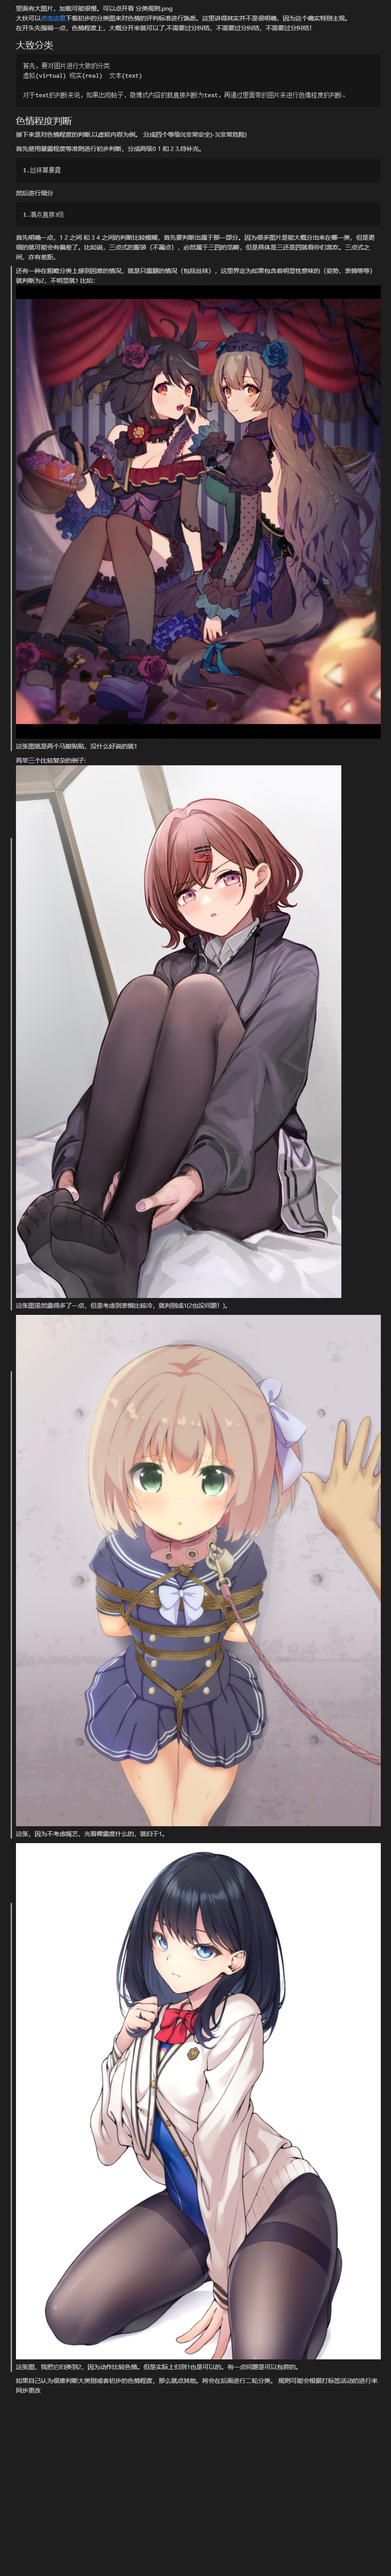
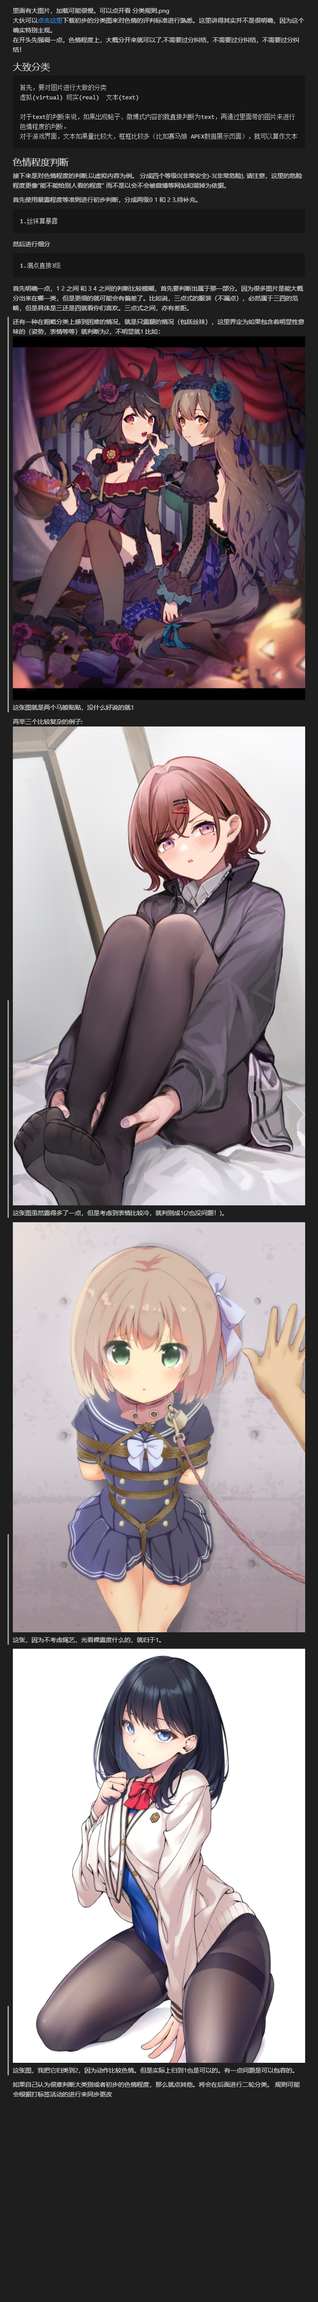
更新了分类规则

diff --git a/src/components/CheckPassword.vue b/src/components/CheckPassword.vue
@@ -28,12 +28,12 @@
               expire = new Date((new Date()).getTime() + hours * 3600000);
               expire = "; expires=" + expire.toGMTString();
             }
-            document.cookie = name + "=" + escape(value) + expire;
+            document.cookie = name + "=" + value + expire;
           },
         
         setCookie(){
             this.writeCookie("password",this.password,100000)
-            this.writeCookie("test","123456",100000)
+            // this.writeCookie("test","123456",100000)
             this.$router.push("/")
         }
     }

diff --git a/src/api/util.js b/src/api/util.js
@@ -1,0 +1,19 @@
+function cookieToJson(str) {
+    let cookieArr = str.split(";");
+    let obj = {} 
+    cookieArr.forEach((i) => {
+        let arr = i.split("=");
+        obj[arr[0]] =arr[1];
+    });
+    return obj
+  }
+function writeCookie(name, value, hours)
+{
+  var expire = "";
+  if(hours != null)
+  {
+    expire = new Date((new Date()).getTime() + hours * 3600000);
+    expire = "; expires=" + expire.toGMTString();
+  }
+  document.cookie = name + "=" + escape(value) + expire;
+}

diff --git a/分类规则.md b/分类规则.md
@@ -6,10 +6,11 @@
     虚拟(virtual) 现实(real)  文本(text)
 
     对于text的判断来说，如果出现帖子、微博式内容的就直接判断为text，再通过里面带的图片来进行色情程度的判断。
+    对于游戏界面，文本如果量比较大，框框比较多（比如赛马娘 APEX数据展示页面），就可以算作文本
 
 ## 色情程度判断
 接下来是对色情程度的判断,以虚拟内容为例。
-分成四个等级0(非常安全)-3(非常危险)
+分成四个等级0(非常安全)-3(非常危险), 请注意，这里的危险程度更像“能不能给别人看的程度” 而不是以会不会被微博等网站和谐掉为依据。
 
 首先使用暴露程度等准则进行初步判断，分成两级0 1 和 2 3,待补充。
 
